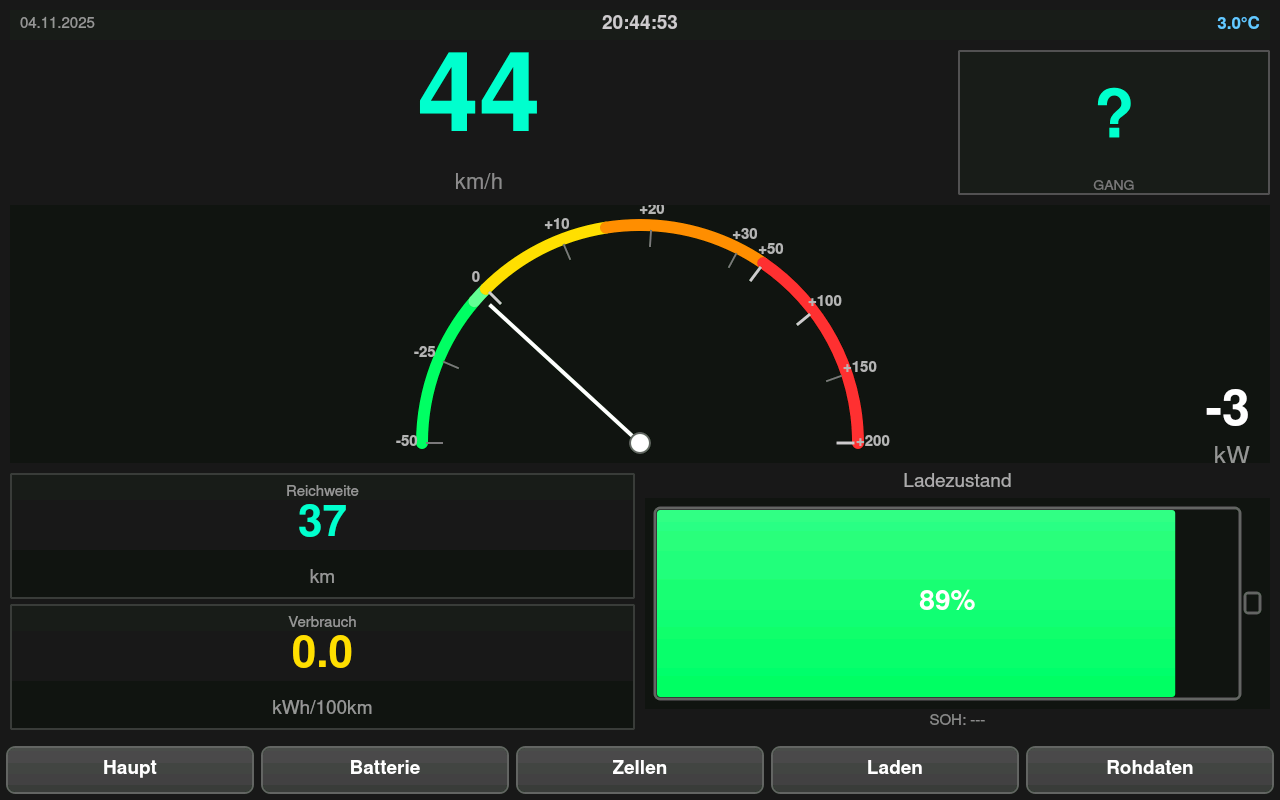
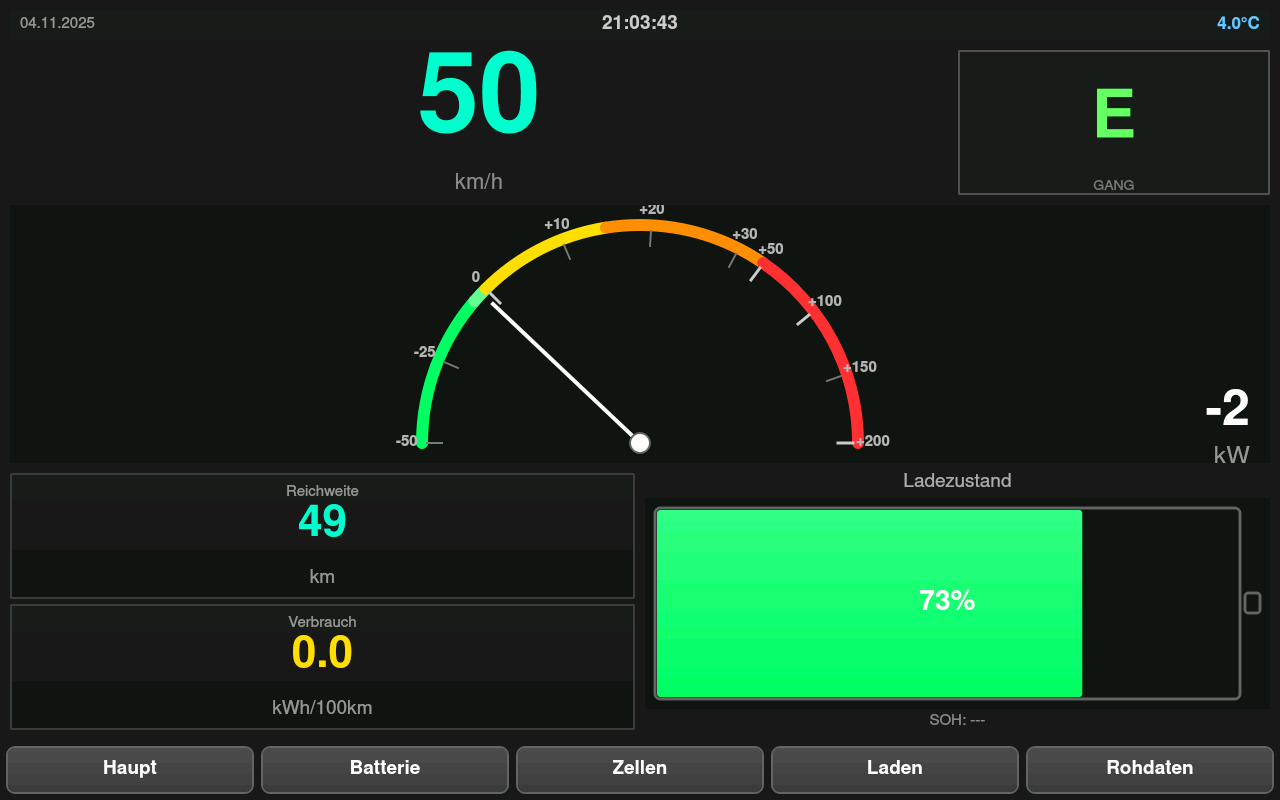
Fix gear display decoding (0x264)
- Analyzed live CAN trace vs recorded trace
- Fixed byte mapping: Bytes 4-5 contain gear info
- Added support for both variants:
  * 0081 = E (Eco, live trace: 01 00 00 41 00 81)
  * 1008 = E (Eco, recorded trace: 01 00 00 40 10 08)
- Updated main screen screenshot with working gear display
- Now correctly shows P/N/R/D/E instead of '?'

diff --git a/can_decoder.py b/can_decoder.py
@@ -282,16 +282,23 @@ class CANDecoder:
         """0x264: Gangwahl."""
         hex_str = "".join(f"{b:02X}" for b in d)
         
-        # Dekodierung nach Original-BASIC
+        # Dekodierung nach Live-Trace-Analyse
+        # Format: 01 00 00 4X YY ZZ 00 00
+        #                   ^^ ^^ ^^
+        # Bytes 3-5 enthalten die Gang-Information
+        # Byte 3 variiert zwischen 40 und 41 (vermutlich Status-Flag)
+        gear_bytes = f"{d[4]:02X}{d[5]:02X}"
+        
         gear_map = {
-            "1004011000": "P",
-            "1004042100": "R",
-            "10040104100": "N",
-            "10040406100": "D",
-            "10041081000": "E",  # Eco-Mode
+            "0401": "P",  # Park      
+            "0421": "R",  # Reverse   
+            "1004": "N",  # Neutral   
+            "4006": "D",  # Drive     
+            "0081": "E",  # Eco-Mode  (live: 01 00 00 41 00 81 00 00)
+            "1008": "E",  # Eco-Mode  (trace: 01 00 00 40 10 08 00 00)
         }
         
-        gear = gear_map.get(hex_str, "?")
+        gear = gear_map.get(gear_bytes, "?")
         
         return {
             "shifter_hex": hex_str,
